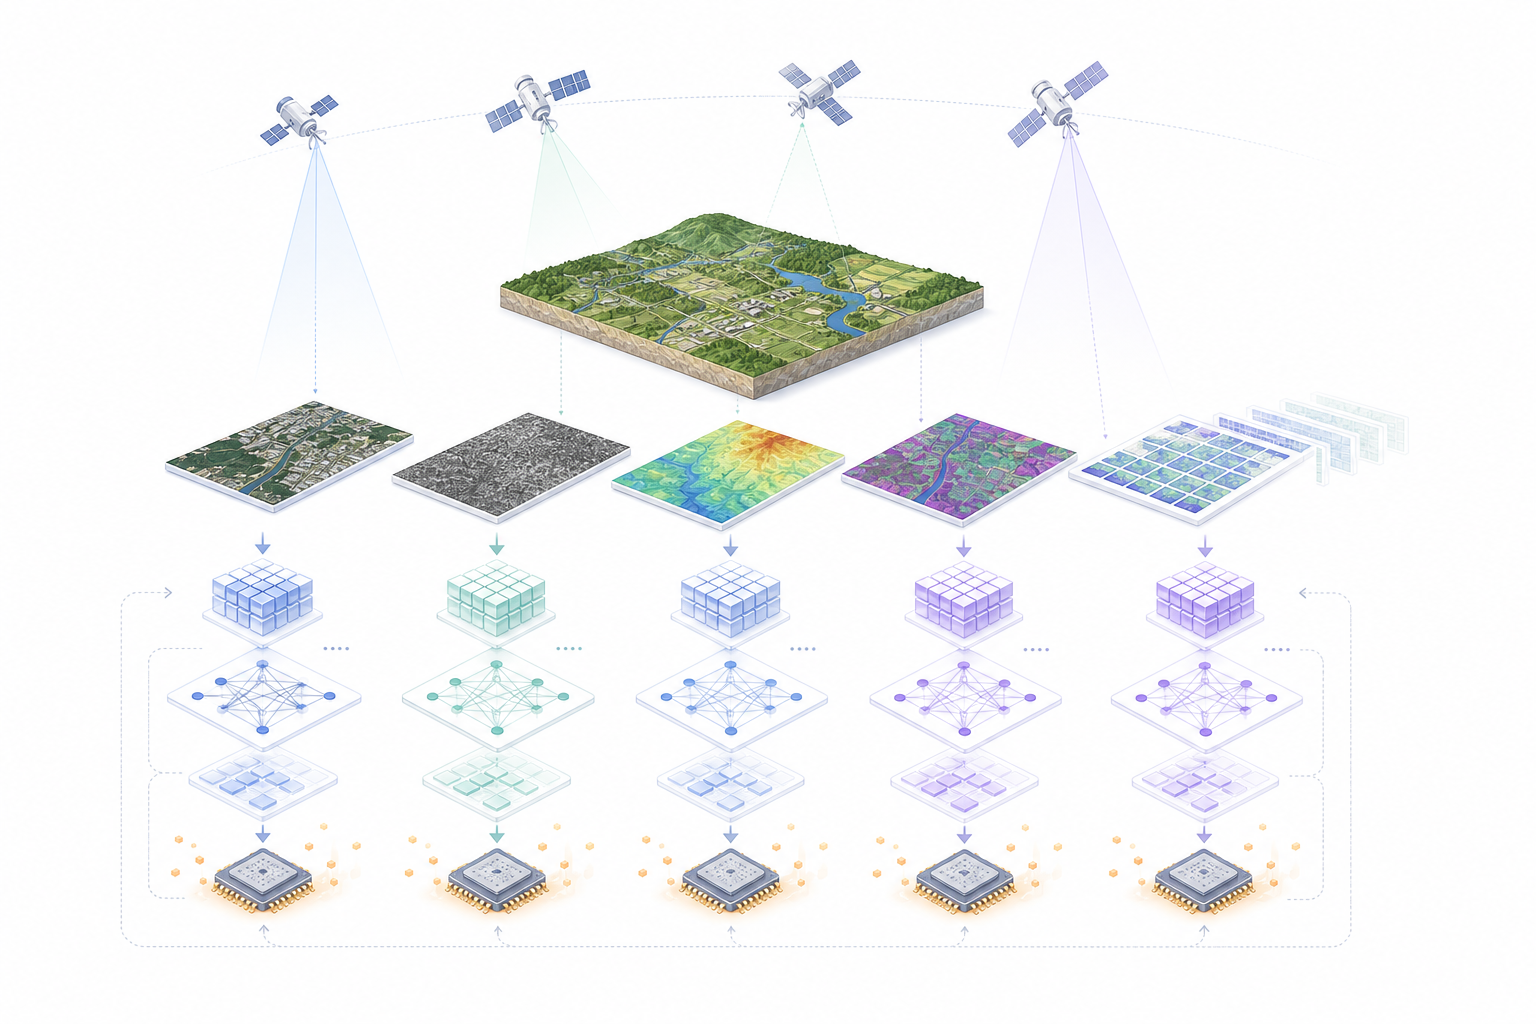
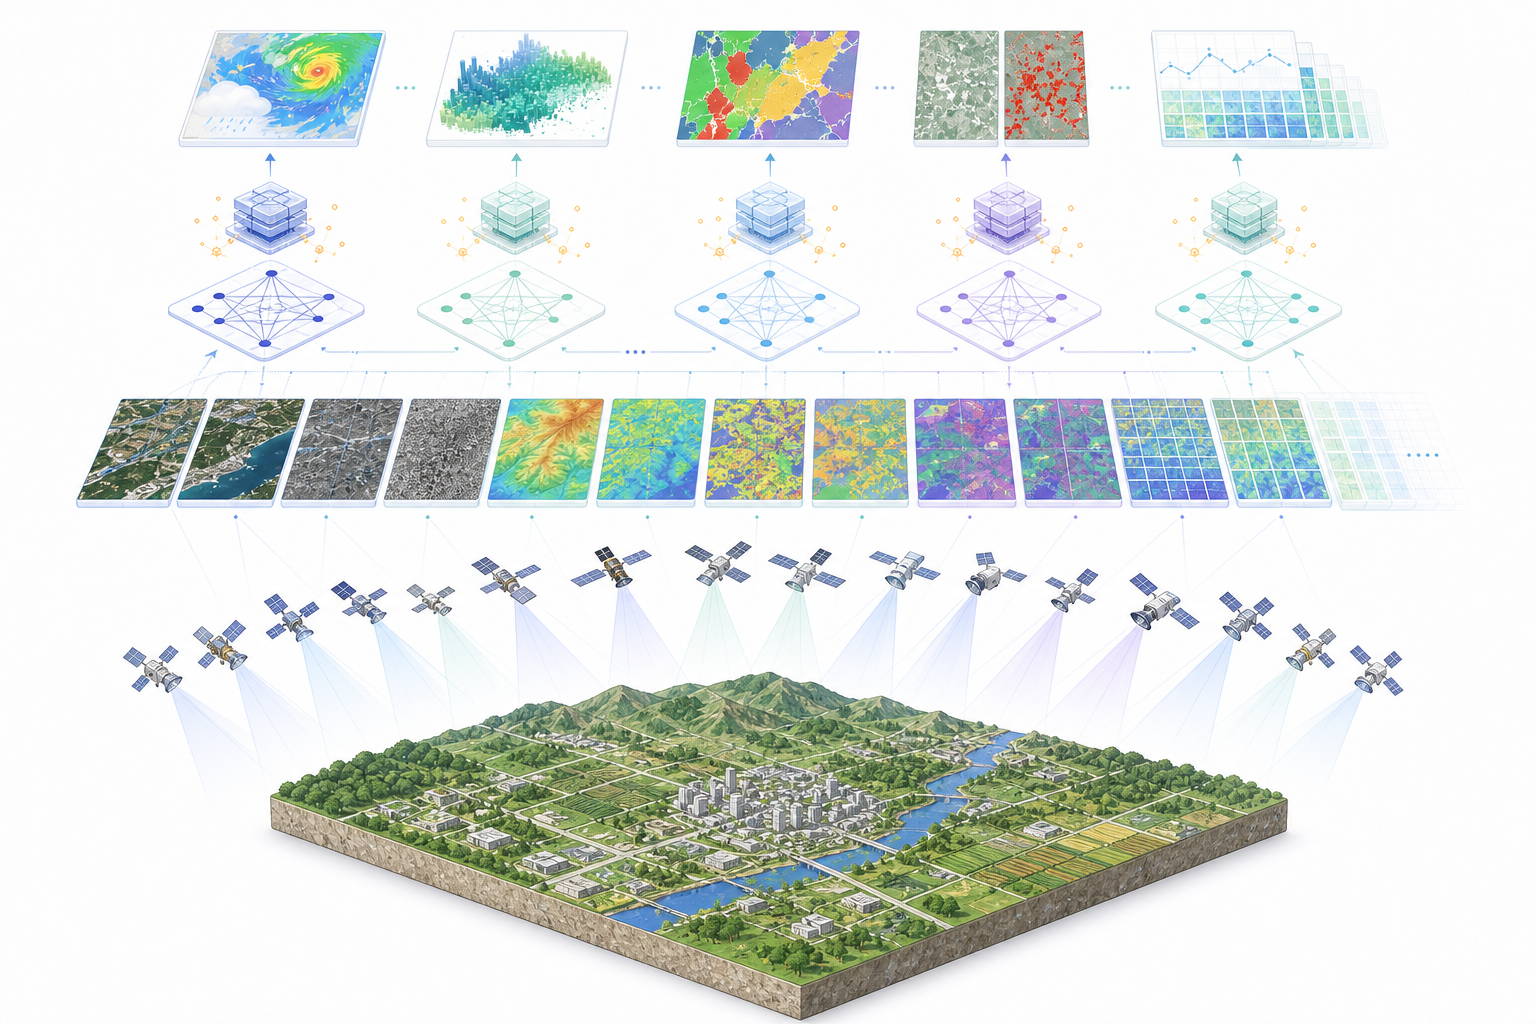
docs: refine BP why slide visuals

diff --git a/docs/bp_deck/scripts/create_front8_deck_v2.py b/docs/bp_deck/scripts/create_front8_deck_v2.py
@@ -266,6 +266,43 @@ def pain_row(slide, icon_fn, head: str, body: str, x, y, color, fill) -> None:
     text(slide, body, x + 2.05, y + 0.14, 2.78, 0.46, 9, C.body)
 
 
+def soft_icon(slide, kind: str, x, y, color, fill) -> None:
+    bg_shape = slide.shapes.add_shape(MSO_AUTO_SHAPE_TYPE.OVAL, Inches(x), Inches(y), Inches(0.74), Inches(0.74))
+    bg_shape.fill.solid()
+    bg_shape.fill.fore_color.rgb = fill
+    bg_shape.line.fill.background()
+    cx = x + 0.37
+    if kind == "repeat":
+        for i in range(3):
+            rect(slide, x + 0.20 + i * 0.06, y + 0.22 + i * 0.06, 0.30, 0.18, C.white, color, rounded=False)
+        text(slide, "↻", x + 0.18, y + 0.34, 0.38, 0.20, 11, color, True, PP_ALIGN.CENTER)
+    elif kind == "compute":
+        rect(slide, x + 0.23, y + 0.23, 0.28, 0.28, C.white, color, rounded=False)
+        for dx, dy in [(0.14, 0.16), (0.56, 0.16), (0.14, 0.56), (0.56, 0.56)]:
+            dot = slide.shapes.add_shape(MSO_AUTO_SHAPE_TYPE.OVAL, Inches(x + dx), Inches(y + dy), Inches(0.05), Inches(0.05))
+            dot.fill.solid()
+            dot.fill.fore_color.rgb = C.amber
+            dot.line.fill.background()
+    else:
+        node = slide.shapes.add_shape(MSO_AUTO_SHAPE_TYPE.OVAL, Inches(cx - 0.07), Inches(y + 0.30), Inches(0.14), Inches(0.14))
+        node.fill.solid()
+        node.fill.fore_color.rgb = color
+        node.line.fill.background()
+        for px, py in [(x + 0.20, y + 0.18), (x + 0.54, y + 0.18), (x + 0.20, y + 0.56), (x + 0.54, y + 0.56)]:
+            line(slide, cx, y + 0.37, px, py, color, 0.8)
+            small = slide.shapes.add_shape(MSO_AUTO_SHAPE_TYPE.OVAL, Inches(px - 0.035), Inches(py - 0.035), Inches(0.07), Inches(0.07))
+            small.fill.solid()
+            small.fill.fore_color.rgb = C.white
+            small.line.color.rgb = color
+
+
+def insight_row(slide, kind: str, head: str, body: str, x, y, color, fill) -> None:
+    soft_icon(slide, kind, x, y + 0.05, color, fill)
+    text(slide, head, x + 0.95, y + 0.05, 4.15, 0.24, 14, C.ink, True)
+    text(slide, body, x + 0.95, y + 0.45, 4.05, 0.38, 9, C.body)
+    line(slide, x + 0.95, y + 0.98, x + 4.92, y + 0.98, C.line, 0.8)
+
+
 def flat_avatar(slide, x, y, role: str, color, accent) -> None:
     rect(slide, x, y, 3.55, 3.0, C.white, C.line)
     # soft background
@@ -400,10 +437,10 @@ def build() -> Presentation:
     bg(s)
     title(s, "03", "我们为什么要做这样一件事情")
     picture_fit(s, IMG["same_land_models"], 0.72, 1.22, 6.35, 4.86)
-    pain_row(s, icon_loop, "重复造轮子", "每个任务都重新找数据、清洗、标注、训练。", 7.62, 1.54, C.blue, C.pale_blue)
-    pain_row(s, icon_database, "数据孤岛", "光学、雷达、高程、气象各自成体系，难复用。", 7.62, 2.88, C.green, C.mint)
-    pain_row(s, icon_layers, "结果难复用", "一个项目一个结果，难沉淀成下次可调用的资产。", 7.62, 4.22, C.purple, C.pale_purple)
-    claim(s, "真正缺的不是更多影像，而是把同一块地连续、统一理解的能力。", 6.20, C.ink)
+    insight_row(s, "repeat", "同一批观测，被反复训练", "气象、分割、变化检测模型，各自重建底层特征。", 7.55, 1.55, C.blue, C.pale_blue)
+    insight_row(s, "compute", "成本耗在重复编码", "数据处理、标注、训练无法复用，任务越多成本越高。", 7.55, 3.02, C.green, C.mint)
+    insight_row(s, "embedding", "缺少通用嵌入层", "行业需要统一地理表征，连接多源观测与下游应用。", 7.55, 4.49, C.purple, C.pale_purple)
+    claim(s, "从每个任务重训，走向一次嵌入、多任务复用。", 6.22, C.ink)
 
     # 4. Benchmark and timing
     s = prs.slides.add_slide(blank)